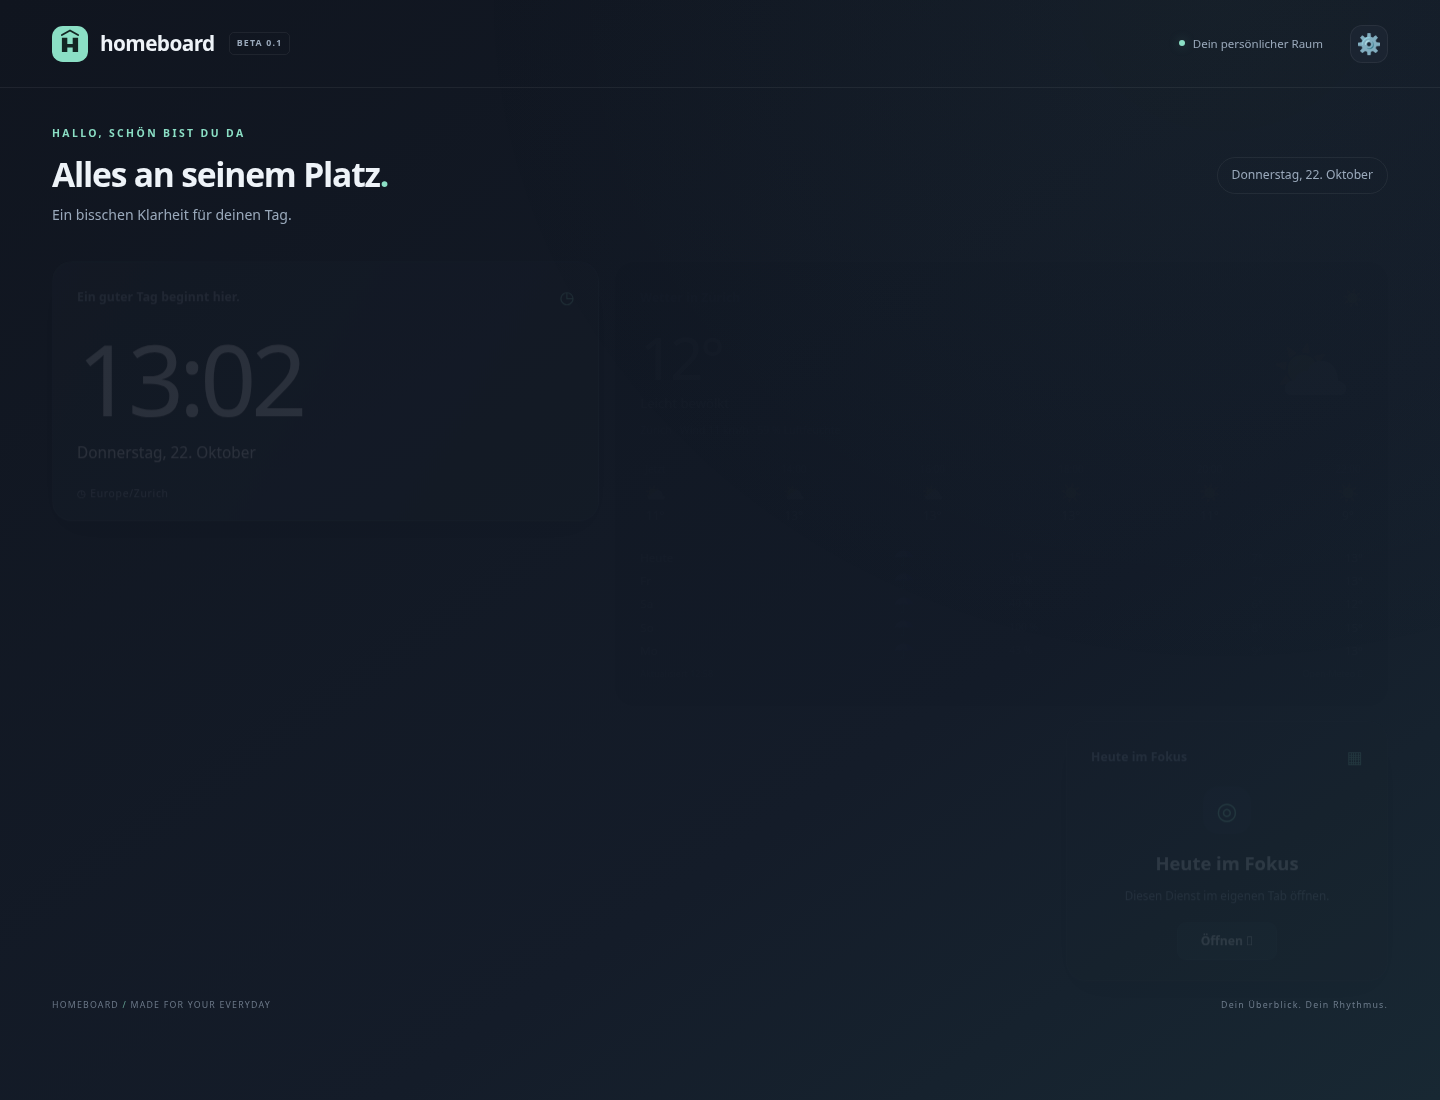
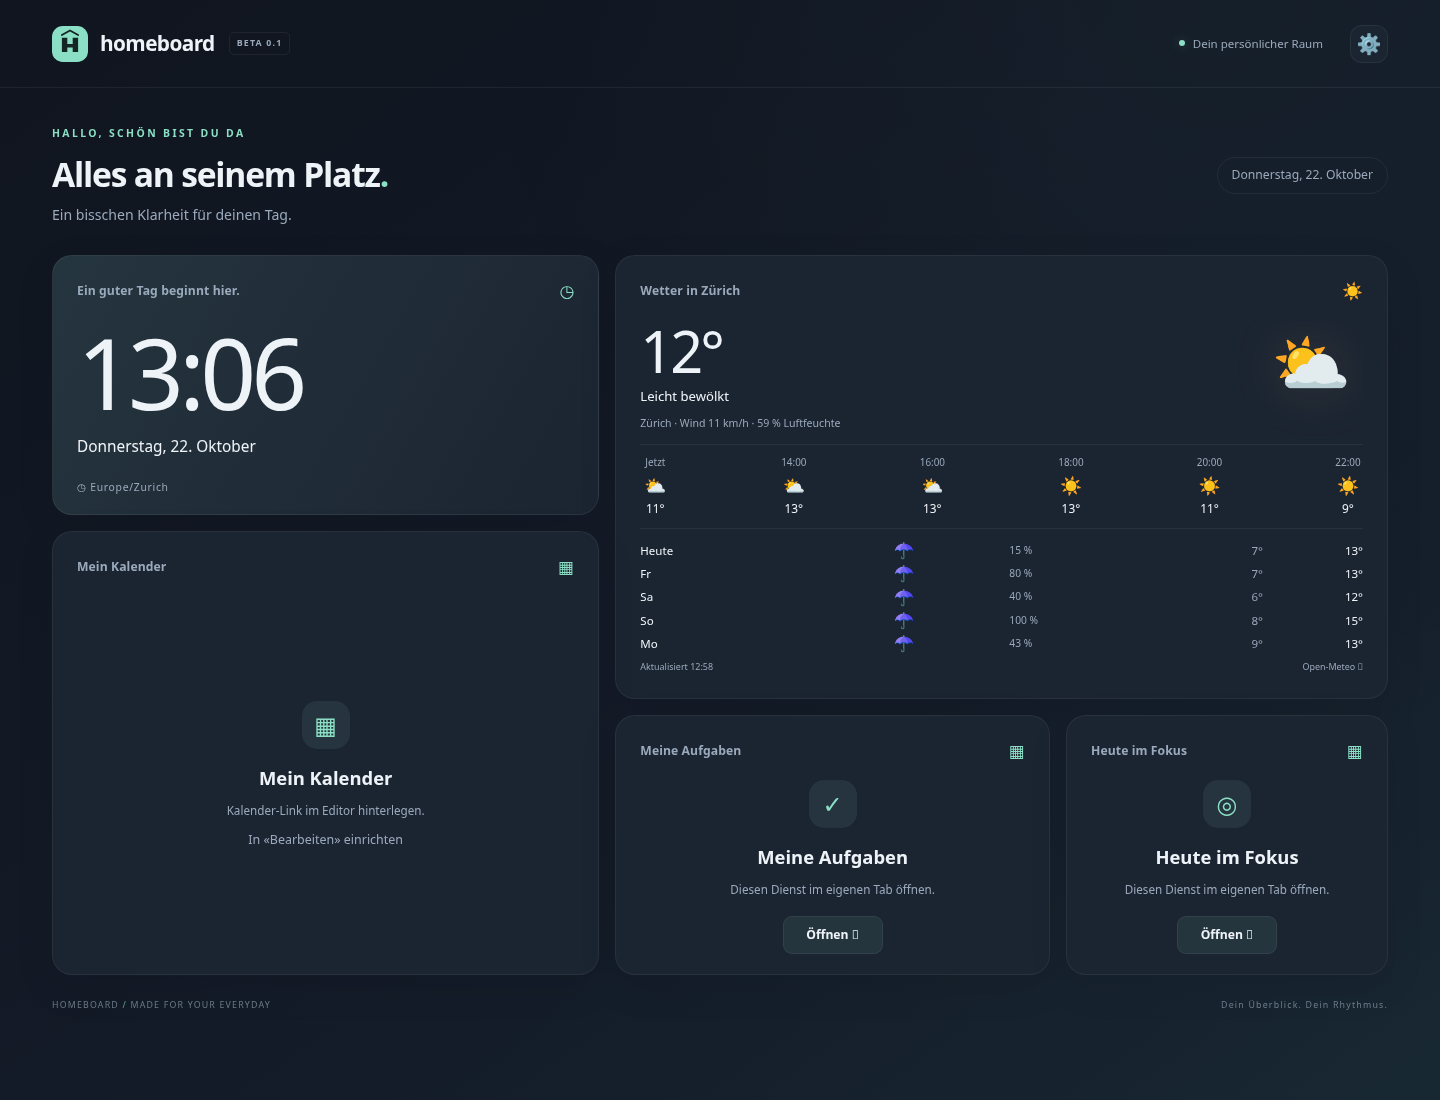
Add verified desktop, mobile and access-denied screenshots and test report

diff --git a/docs/ABSCHLUSSBERICHT.md b/docs/ABSCHLUSSBERICHT.md
@@ -4,10 +4,11 @@ Stand: 22. Oktober 2026. Rust/Axum/Tokio mit eingebetteter Oberfläche, ohne zus
 
 ## Gebaut und getestet
 
-- Linux: kompilierbarer Quellcode, optimierter Build, `cargo fmt --check`, `cargo clippy --locked --all-targets -- -D warnings` und zwölf bestandene Unit-/HTTP-Tests.
+- Linux: kompilierbarer Quellcode, optimierter Build und eigenständig aus einem Ordner ohne Frontend-Dateien gestartete Release-Binärdatei (alle eingebetteten Assets erreichbar), `cargo fmt --check`, `cargo clippy --locked --all-targets -- -D warnings` und zwölf bestandene Unit-/HTTP-Tests.
 - Chromium: Dashboard, Passwort-Erstvergabe, Login/Logout, Text-Widget, Duplizieren, Rückgängig, echtes Pointer-Drag & Drop, Grössenänderung, Speichern, Vorschau und JSON-Export/-Import ohne JavaScript-Fehler.
+- 403: echter Backend-Aufruf über die nicht erlaubte Netzwerkadresse liefert Status 403; die tatsächliche HTML-Antwort wurde als Screenshot erfasst.
 - Eigener Code: JavaScript-Zähler funktioniert im tatsächlichen Sandbox-iframe; Zugriff auf das übergeordnete Dokument wird blockiert.
-- Open-Meteo: echte Backend-Abfrage erfolgreich. Screenshots zeigen Live-Wetterdaten und die tatsächliche Browseroberfläche, keine simulierte Wetterantwort. Fünf Tage vollständig sichtbar. Desktop und mobile Darstellung geprüft.
+- Open-Meteo: echte Backend-Abfrage erfolgreich. Screenshots zeigen Live-Wetterdaten und die tatsächliche Browseroberfläche, keine simulierte Wetterantwort. Fünf Tage vollständig sichtbar. Desktop und mobile Darstellung geprüft; kein horizontaler Überlauf auf 390 px. Neue Wetterkoordinaten werden auch in der Vorschau über den angemeldeten Backend-Endpunkt geladen.
 - Windows auf GitHub `windows-latest`: erster vollständiger [Build-Lauf](https://github.com/747elias/Homeboard/actions/runs/39766738344) erfolgreich. MSVC-Build, rustfmt, Clippy, zwölf Tests und Inno-Setup-Kompilierung bestanden.
 - Derselbe Windows-Lauf hat den Installer ausgeführt und automatischen Dienst/LocalService, HTTP, Anmeldung, Speichern, Dienstneustart, Konfigurationspersistenz, Zugriff-/Passwort-Reset und Deinstallation mit Datenerhalt erfolgreich geprüft.
 
@@ -20,7 +21,8 @@ Der Windows-Dienst und der Installer sind über einen Windows-CI-Runner getestet
 - [Repository Homeboard](https://github.com/747elias/Homeboard), Branch `main`, MIT-Lizenz.
 - [Pre-release v0.1.0-beta](https://github.com/747elias/Homeboard/releases/tag/v0.1.0-beta).
 - [Build-Workflow](https://github.com/747elias/Homeboard/actions/workflows/build.yml) und [Release-Workflow](https://github.com/747elias/Homeboard/actions/workflows/release.yml).
-- Vorgesehene Release-Dateien: `homeboard.exe`, `Homeboard-Setup-0.1.0-beta.exe`, `SHA256SUMS.txt`. Der Release-Workflow veröffentlicht erst nach erfolgreichem Build und Installer-Smoke-Test. Der endgültige Lauf und die verifizierten Datei-Prüfsummen werden im Abschluss der Auslieferung festgehalten.
+- Release-Dateien: `homeboard.exe`, `Homeboard-Setup-0.1.0-beta.exe`, `SHA256SUMS.txt`. Der Release-Workflow veröffentlicht erst nach erfolgreichem Build und Installer-Smoke-Test. Die Release-Seite enthält die tatsächlich verfügbaren Dateien und ihre Metadaten.
+- [Weiterer Windows-Lauf des finalen Anwendungscodes](https://github.com/747elias/Homeboard/actions/runs/39767759323). Der vollständige Status und alle Protokolle sind über die Workflow-Links abrufbar.
 
 ## Grenzen
 
